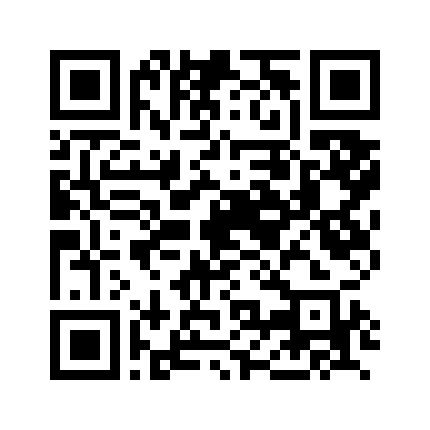
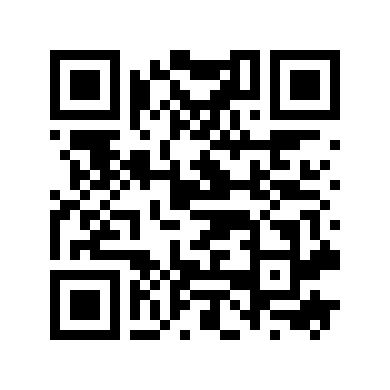
docs: update profile links and QR code for new URL

diff --git a/README.md b/README.md
@@ -36,6 +36,6 @@ Interested in mobile development, frontend technologies, and personal knowledge 
 
 ## About Me
 
-- [Re:system — Profile & Links](https://haino357.github.io/SelfIntroductionPage/)
+- [Re:system — Profile & Links](https://haino357.github.io/re-system/)
 
-[<img src="assets/profile-qr.png" alt="QR code for Re:system — Profile & Links" width="200" height="200">](https://haino357.github.io/SelfIntroductionPage/)
+[<img src="assets/profile-qr.png" alt="QR code for Re:system — Profile & Links" width="200" height="200">](https://haino357.github.io/re-system/)
